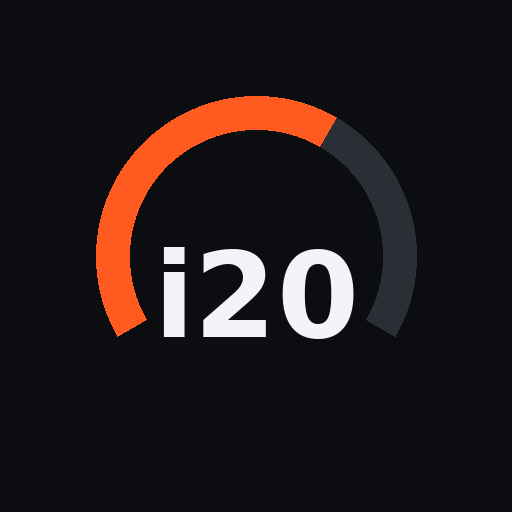
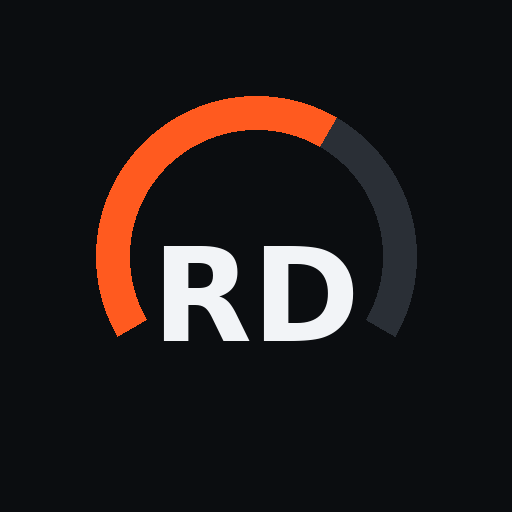
Rename project to Rave Drives
App name, icon, web address (rave-drives.pages.dev), storage and
download file names no longer reference the i20; the car itself is
configured in the My car profile.

Changed region(s): [[0.3125, 0.4688, 0.6875, 0.6875]]

diff --git a/src/lib/recap.ts b/src/lib/recap.ts
@@ -12,7 +12,7 @@ export async function renderRecap(d: Drive): Promise<Blob> {
   g.fillStyle = bg; g.fillRect(0, 0, W, H);
 
   const font = (px: number, w = 600, mono = false) => `${w} ${px}px ${mono ? 'ui-monospace, Menlo, monospace' : 'system-ui, -apple-system, Roboto, sans-serif'}`;
-  g.fillStyle = '#ff5a1f'; g.font = font(34, 800); g.fillText('DRIVE RECAP', 80, 130);
+  g.fillStyle = '#ff5a1f'; g.font = font(34, 800); g.fillText('RAVE DRIVES · RECAP', 80, 130);
   g.fillStyle = '#a9b0bb'; g.font = font(40, 500); g.fillText(`${fmtDate(d.startedAt)} · ${fmtTime(d.startedAt)}`, 80, 190);
   if (d.name) { g.fillStyle = '#f2f4f7'; g.font = font(56, 700); g.fillText(d.name, 80, 270); }
 
@@ -70,7 +70,7 @@ function roundRect(g: CanvasRenderingContext2D, x: number, y: number, w: number,
 
 export async function shareRecap(d: Drive) {
   const blob = await renderRecap(d);
-  const file = new File([blob], `i20-drive-${new Date(d.startedAt).toISOString().slice(0, 10)}.png`, { type: 'image/png' });
+  const file = new File([blob], `rave-drive-${new Date(d.startedAt).toISOString().slice(0, 10)}.png`, { type: 'image/png' });
   if (navigator.canShare?.({ files: [file] })) {
     try { await navigator.share({ files: [file] }); return; } catch (e) { if ((e as Error).name === 'AbortError') return; }
   }

diff --git a/src/components/SettingsPage.tsx b/src/components/SettingsPage.tsx
@@ -12,7 +12,7 @@ export function SettingsPage({ settings, onChange, drives, onImported }: { setti
   const exportAll = () => {
     const a = document.createElement('a');
     a.href = URL.createObjectURL(new Blob([JSON.stringify(drives)], { type: 'application/json' }));
-    a.download = `i20-drives-${new Date().toISOString().slice(0, 10)}.json`; a.click();
+    a.download = `rave-drives-${new Date().toISOString().slice(0, 10)}.json`; a.click();
   };
   const importAll = async (f: File) => {
     const data = JSON.parse(await f.text());

diff --git a/src/components/DriveDetail.tsx b/src/components/DriveDetail.tsx
@@ -30,7 +30,7 @@ export function DriveDetail({ drive, onBack, onChanged, onRace }: { drive: Drive
   const exportJson = () => {
     const a = document.createElement('a');
     a.href = URL.createObjectURL(new Blob([JSON.stringify(drive)], { type: 'application/json' }));
-    a.download = `i20-drive-${drive.id}.json`; a.click();
+    a.download = `rave-drive-${drive.id}.json`; a.click();
   };
   const sim = drive.source.gps === 'sim' || drive.source.obd === 'sim';
 

diff --git a/src/lib/db.ts b/src/lib/db.ts
@@ -3,7 +3,7 @@ import { DEFAULT_SETTINGS, type Drive, type Settings } from './types';
 
 let dbp: Promise<IDBPDatabase> | null = null;
 function db() {
-  dbp ??= openDB('i20-telemetry', 1, {
+  dbp ??= openDB('rave-drives', 1, {
     upgrade(d) {
       const s = d.createObjectStore('drives', { keyPath: 'id' });
       s.createIndex('startedAt', 'startedAt');

diff --git a/index.html b/index.html
@@ -6,7 +6,7 @@
     <meta name="theme-color" content="#0b0d10" />
     <link rel="manifest" href="/manifest.webmanifest" />
     <link rel="icon" href="/icon-192.png" />
-    <title>i20 Telemetry</title>
+    <title>Rave Drives</title>
   </head>
   <body>
     <div id="root"></div>

diff --git a/public/sw.js b/public/sw.js
@@ -1,5 +1,5 @@
 // Offline support: network-first for pages, cache-first for hashed assets.
-const CACHE = 'i20-v1';
+const CACHE = 'rave-v1';
 self.addEventListener('install', () => self.skipWaiting());
 self.addEventListener('activate', (e) => {
   e.waitUntil(

diff --git a/README.md b/README.md
@@ -1,8 +1,9 @@
-# i20 Telemetry
+# Rave Drives
 
-"Strava for your car" for a 2024 Hyundai i20 1.2 IVT. A web app that runs on an
-Android phone (Galaxy S20 FE) in Chrome, talks to a **Vgate iCar Pro 2S** (BLE)
-OBD-II adapter over Web Bluetooth, and logs every drive locally.
+"Strava for your car." A web app that logs every drive from your phone's GPS and,
+optionally, a Bluetooth OBD-II adapter (built and tested around a 2024 Hyundai i20
+1.2 IVT with a **Vgate iCar Pro 2S**). Works on any phone in GPS-only mode; the OBD
+connection needs Chrome on Android (Web Bluetooth).
 
 ## What it does
 - **Live dashboard:** speed, RPM, throttle, load, coolant, volts, live and trip km/l
@@ -24,7 +25,7 @@ npm run build
 Web Bluetooth and GPS need HTTPS, so the phone loads the app from Cloudflare Pages.
 ```
 npx wrangler login                                                        # once
-npx wrangler pages project create i20-telemetry --production-branch main  # once
+npx wrangler pages project create rave-drives --production-branch main    # once
 npm run deploy
 ```
 Only the app code is hosted. Drive data never leaves the phone.
